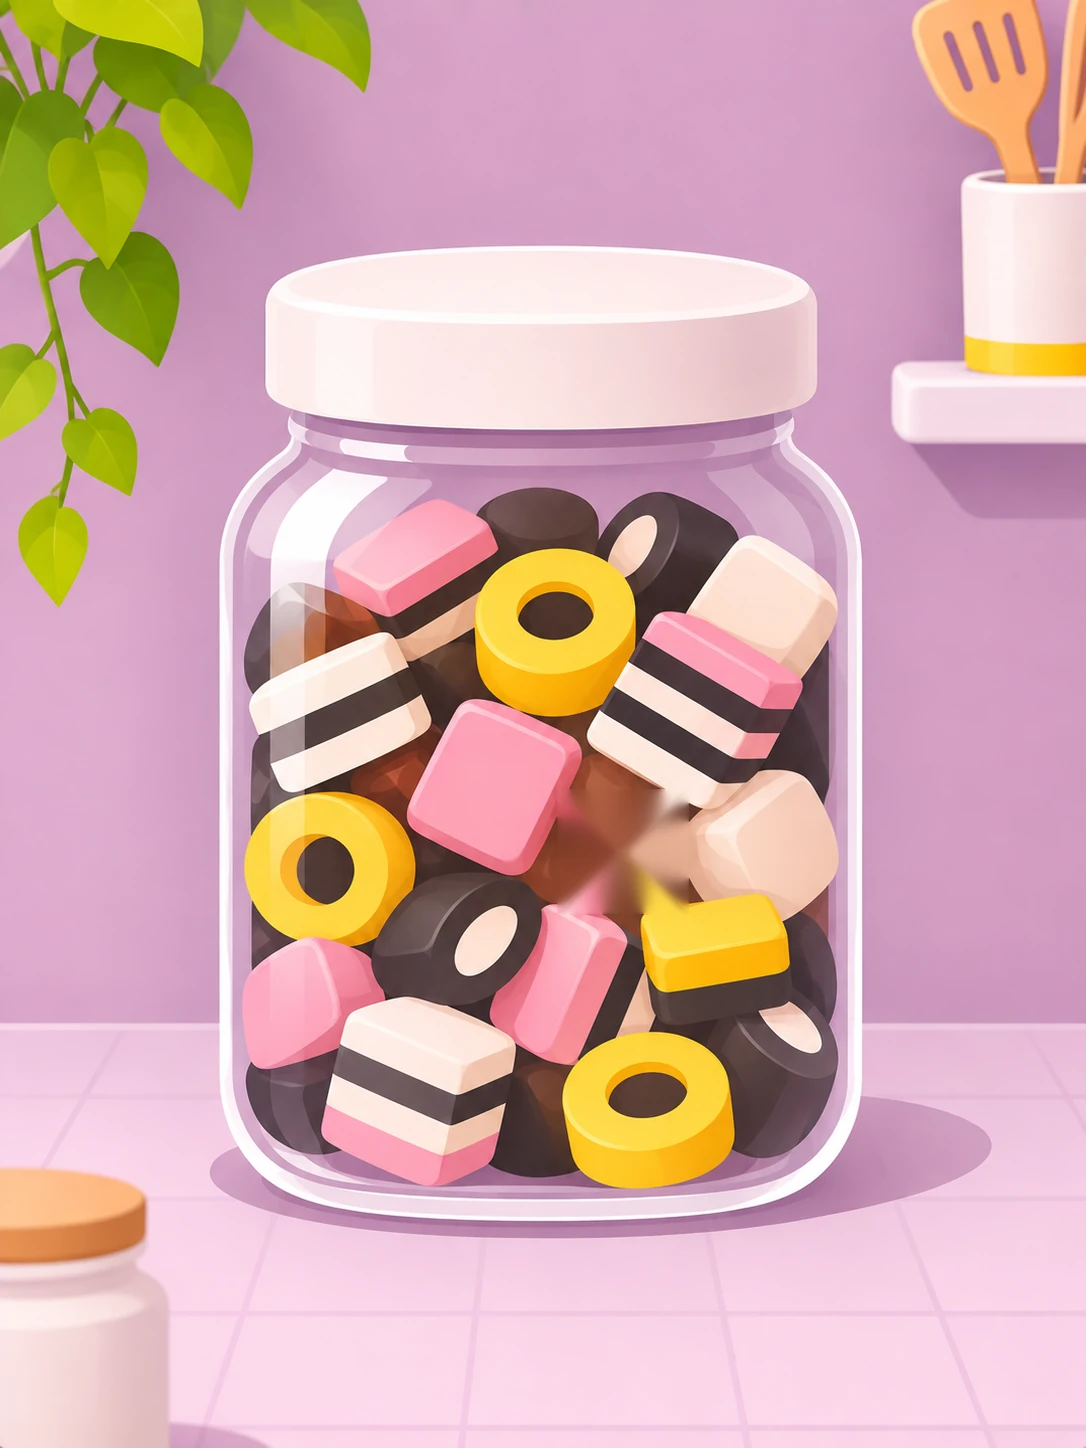
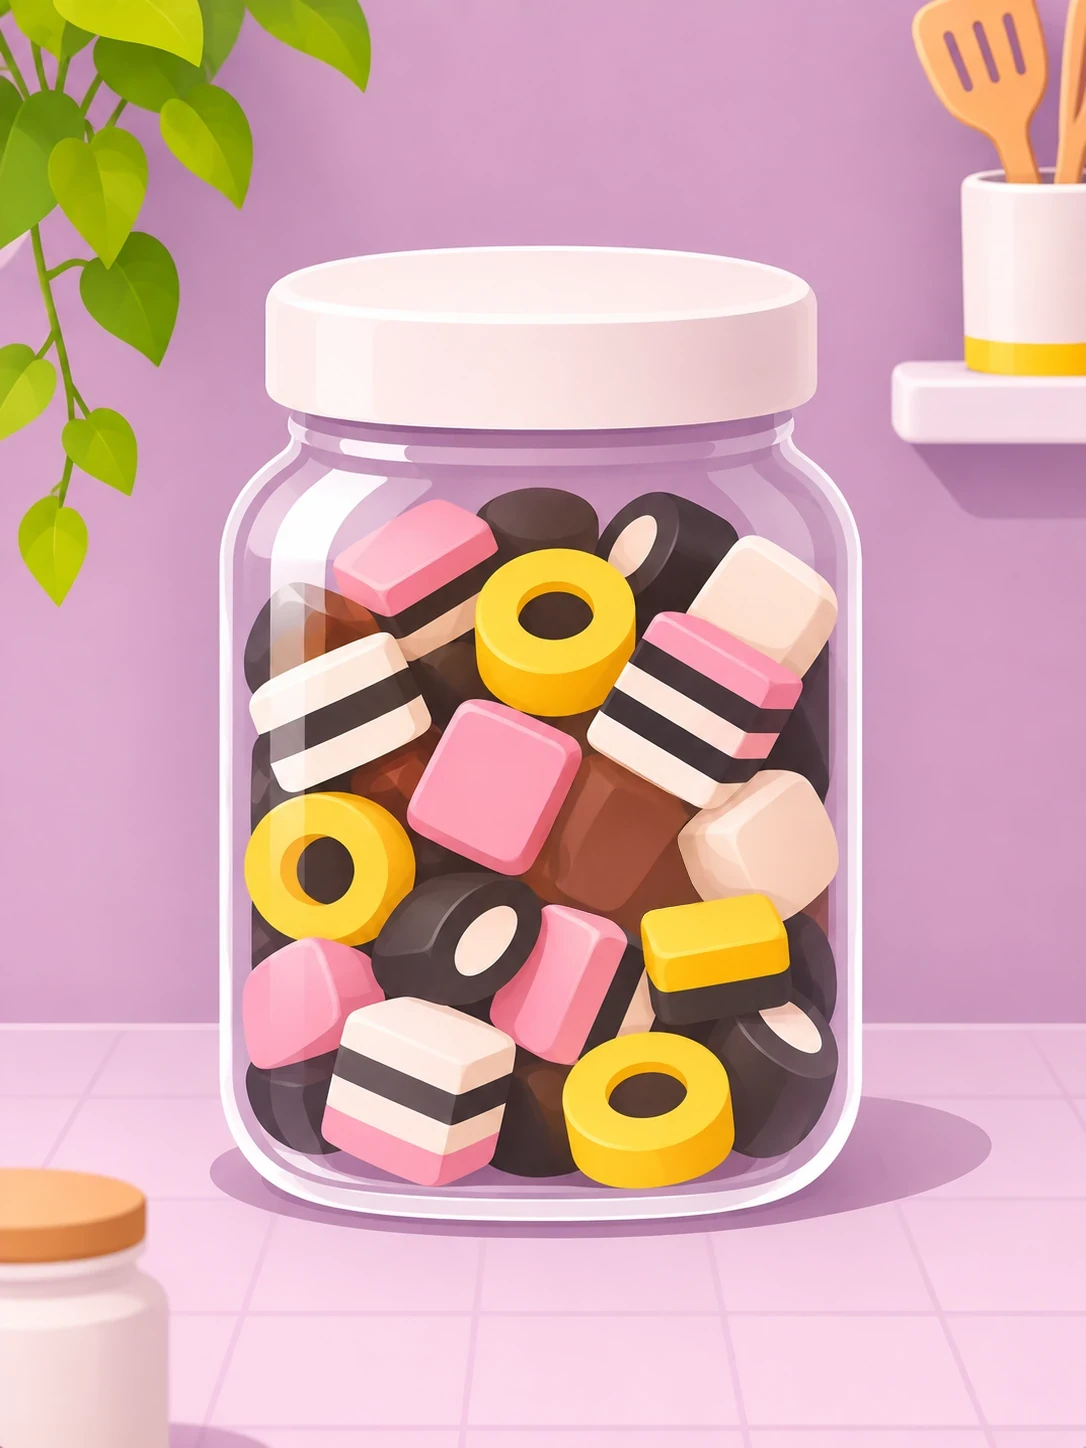
Tutorial: supplied revealed-jar art shown after the pixel is found
art/tutorial/jar-revealed.png replaces the painted-out stand-in (build falls
back to painting out only if the file is missing or a different size).

Claude-Session: https://claude.ai/code/session_01UxEJfKJ7e9nQVjWFGnjkdX

Changed region(s): [[0.5166, 0.5283, 0.6381, 0.6526]]

diff --git a/scripts/build_tutorial.py b/scripts/build_tutorial.py
@@ -1,9 +1,9 @@
 """Build the tutorial (jar) assets from art/tutorial/jar.png (1086x1448).
 
   jar.webp               the illustration as supplied (shown during play)
-  jar-clean.webp         same, with the black square painted out — revealed
-                         after the success burst (stand-in until a clean
-                         version of the art is supplied)
+  jar-clean.webp         the jar as it looks once the pixel is found — revealed
+                         after the success burst (art/tutorial/jar-revealed.png,
+                         supplied art; falls back to painting the square out)
   jar-ext-top/bottom     edge strips for phones taller than the art
 
 Usage:  python3 scripts/build_tutorial.py
@@ -35,7 +35,11 @@ x, y, w, h = st[k, :4]
 print(f"square x={x} y={y} w={w} h={h} centre=({x + w / 2:.1f},{y + h / 2:.1f})")
 hole = np.zeros_like(dark)
 hole[y - 4:y + h + 4, x - 4:x + w + 4] = 1
-clean = cv2.inpaint(src, hole * 255, 15, cv2.INPAINT_TELEA)
+revealed = cv2.imread(f"{ART}/jar-revealed.png")
+if revealed is not None and revealed.shape == src.shape:
+    clean = revealed
+else:
+    clean = cv2.inpaint(src, hole * 255, 15, cv2.INPAINT_TELEA)
 to_pil(clean).save(f"{OUT}/jar-clean.webp", "WEBP", quality=90, method=6)
 
 edge_strip(src[:6], True, clean=True).save(f"{OUT}/jar-ext-top.webp", "WEBP", quality=92)
